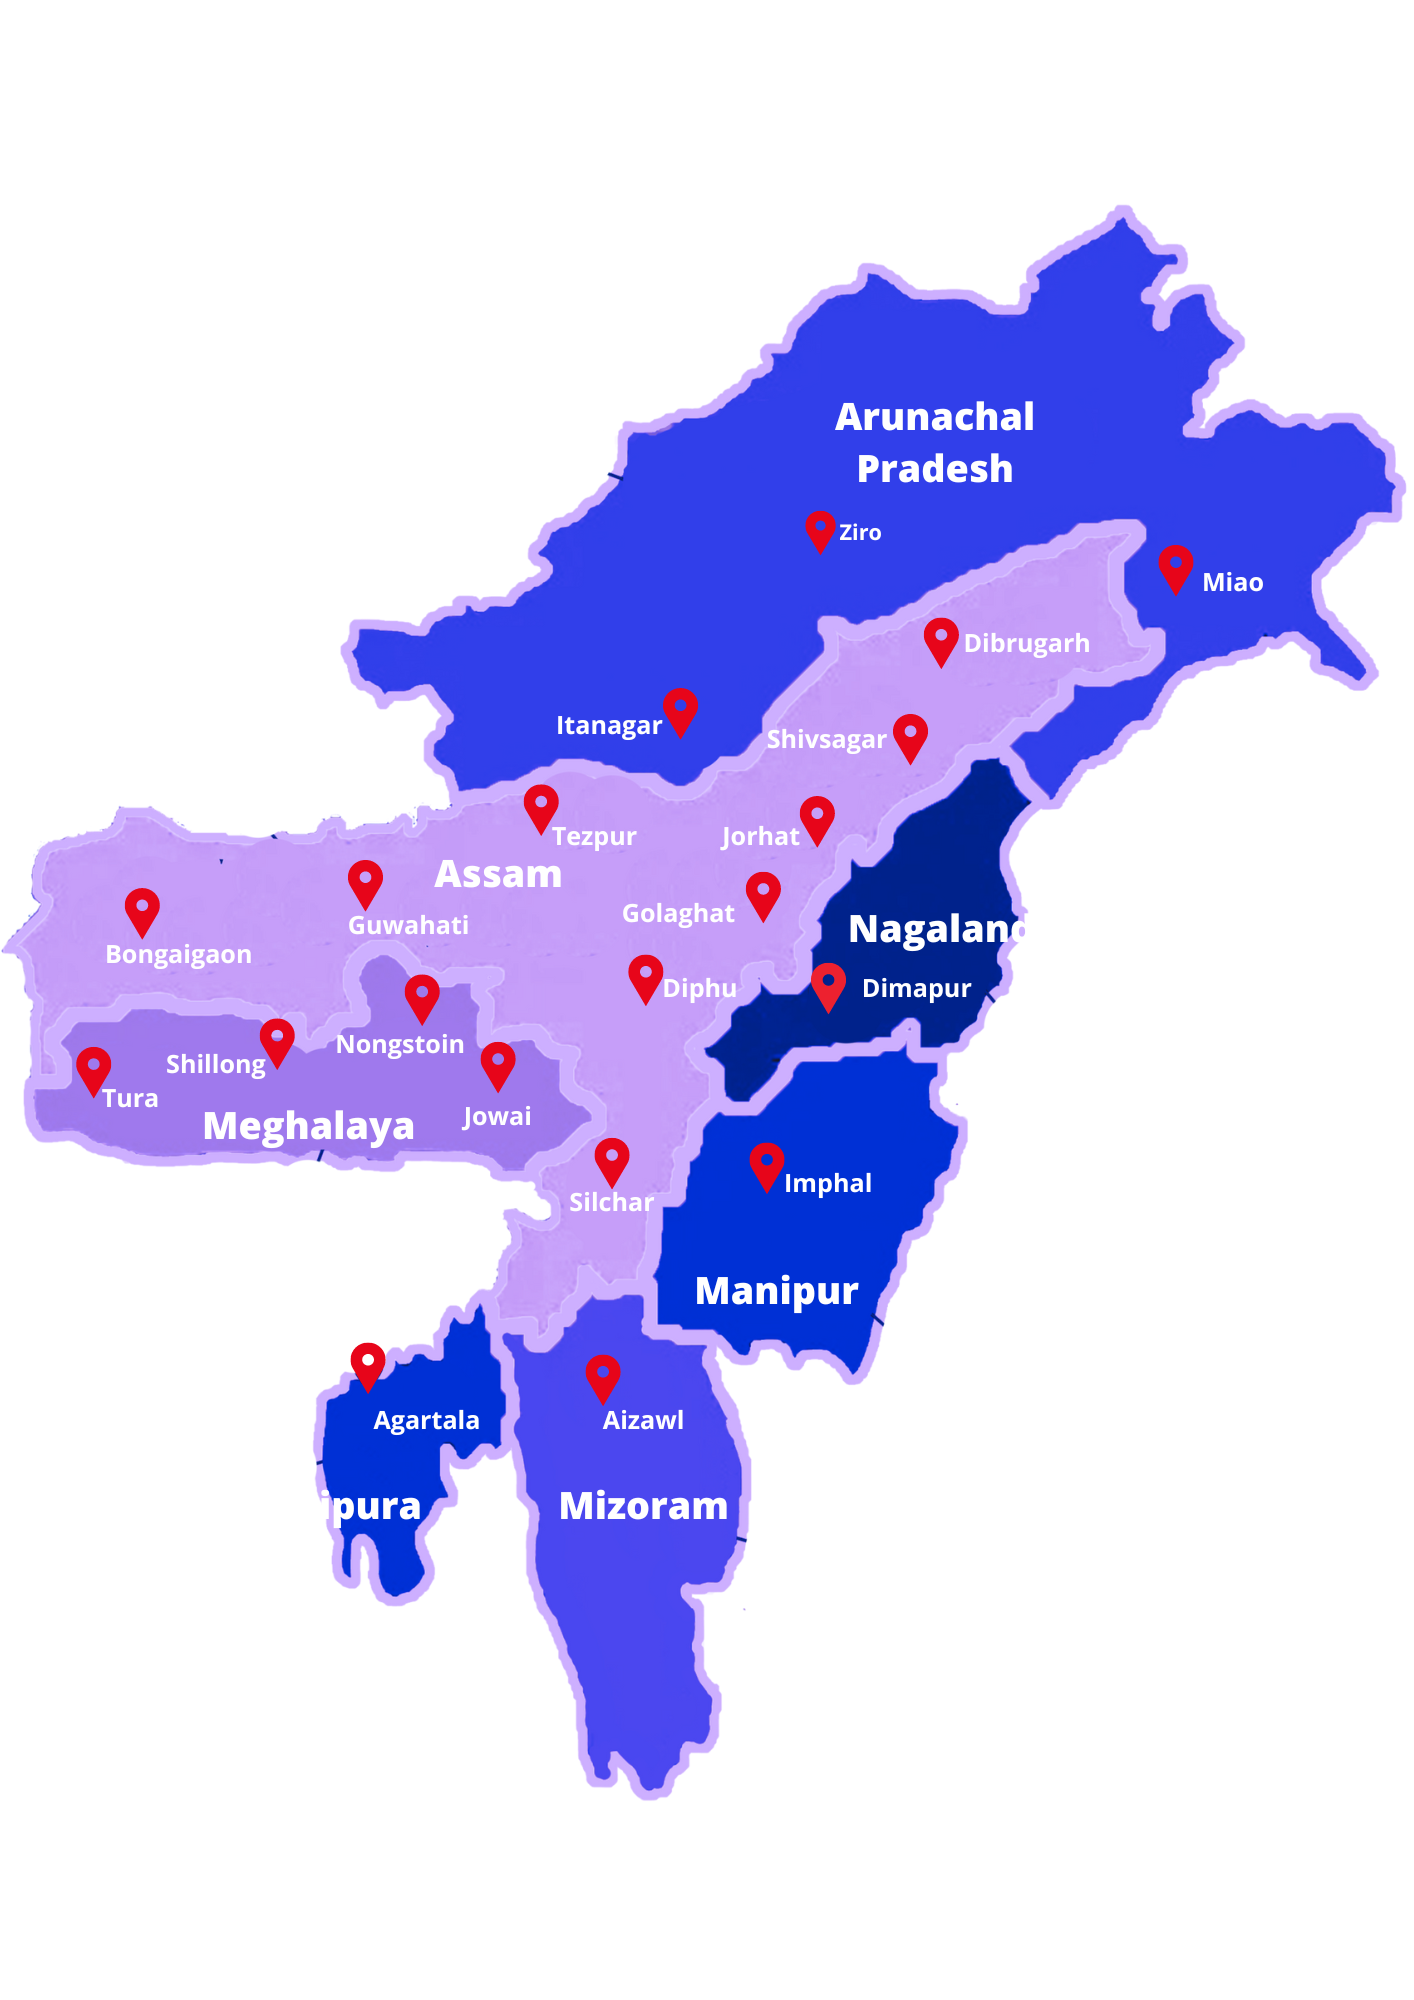
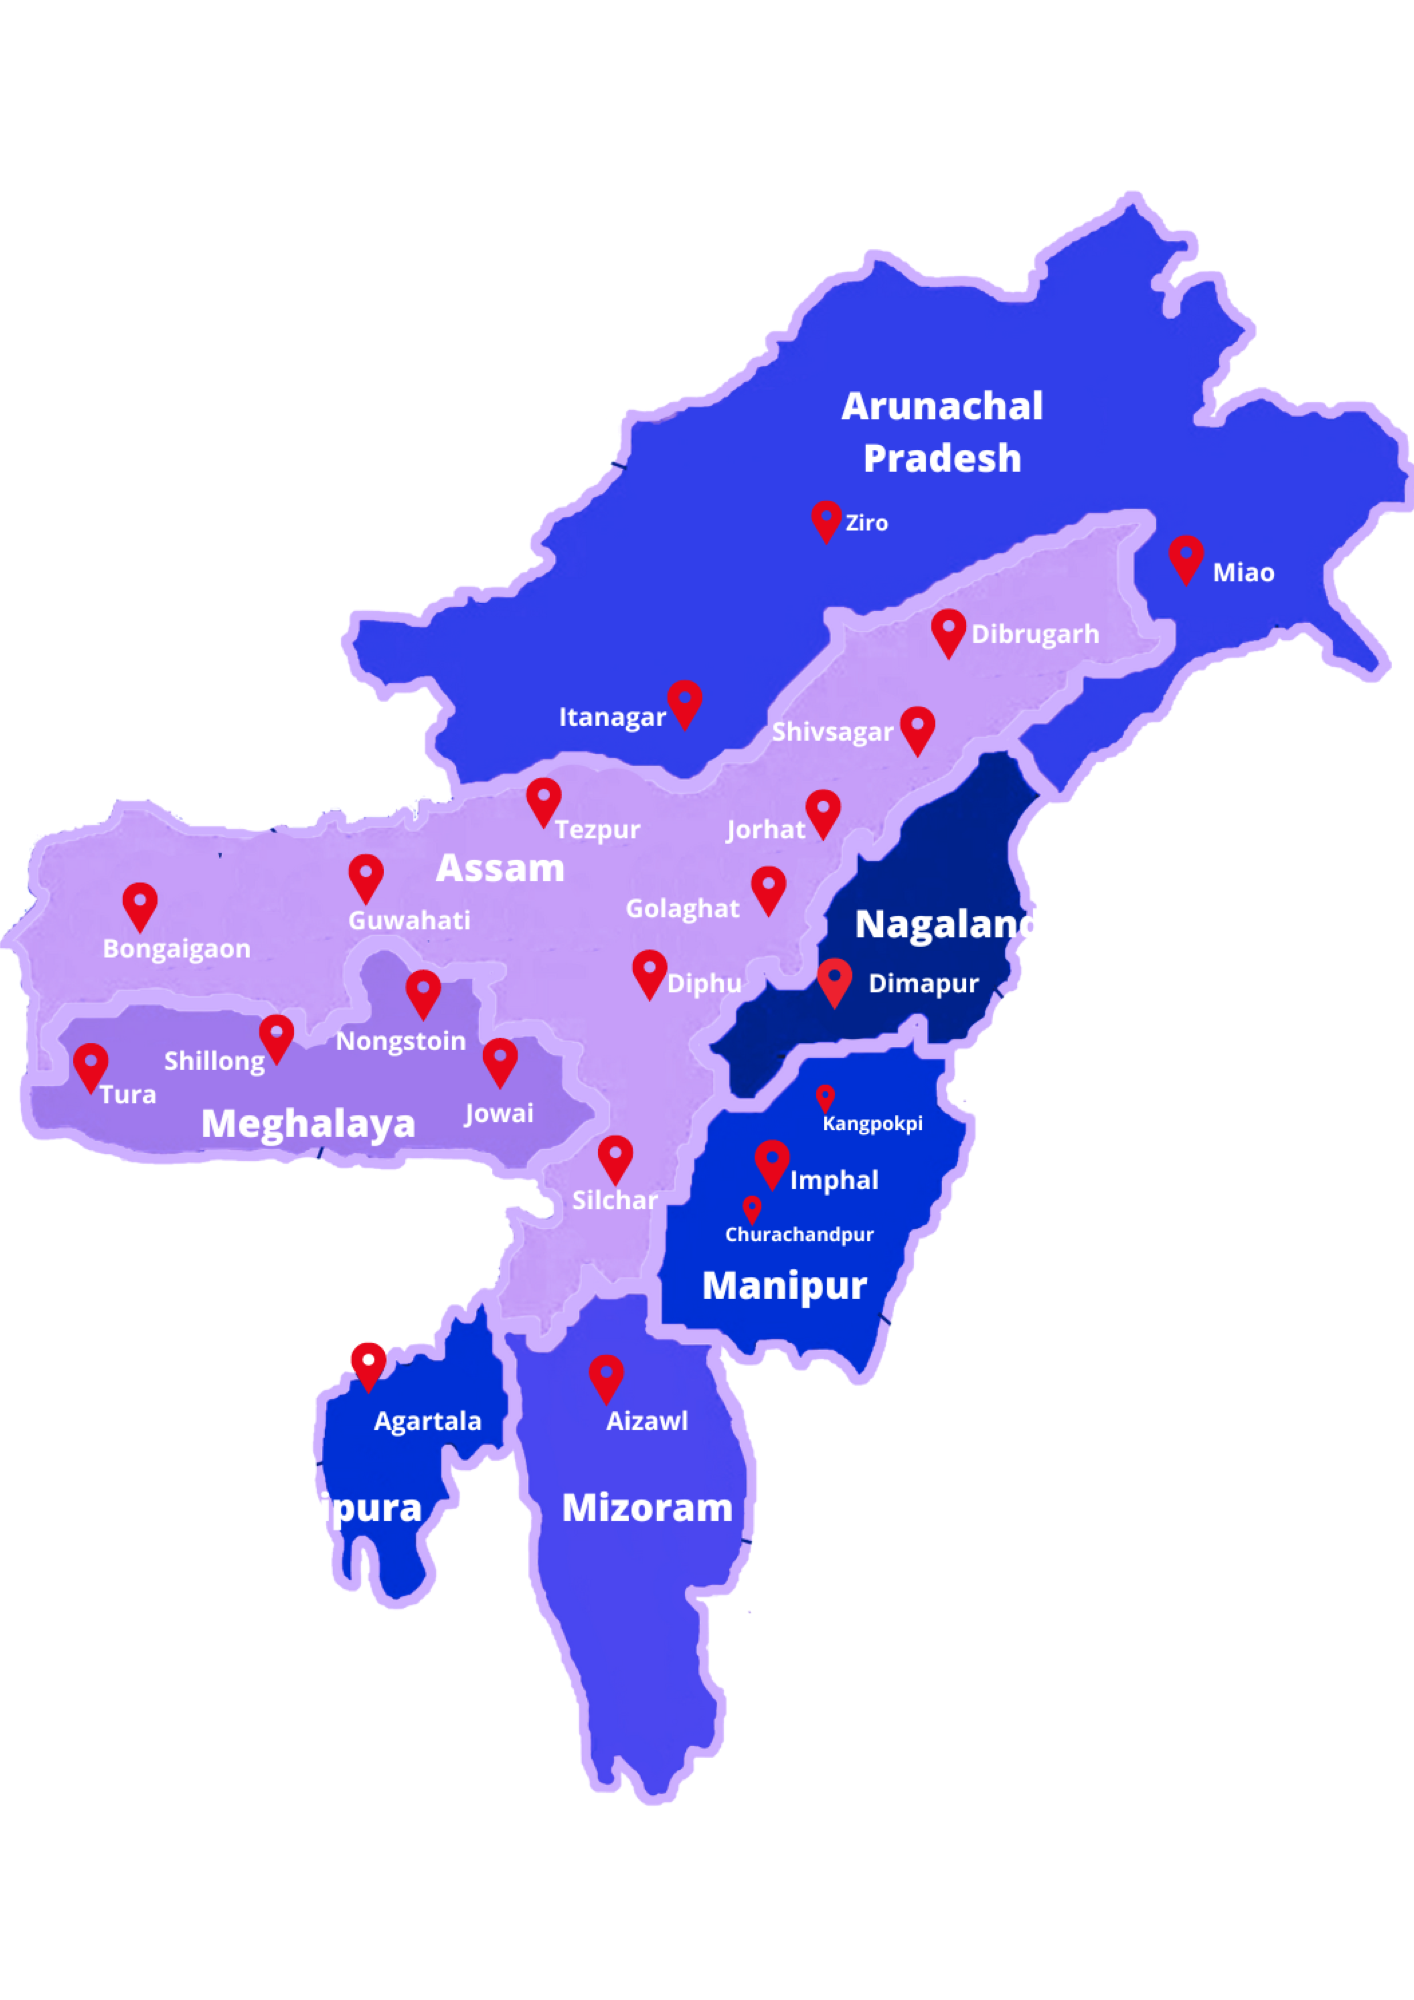
new locations :: Manipur

diff --git a/registration.html b/registration.html
@@ -424,11 +424,14 @@
 														<option value="Dimapur, Nagaland "> Dimapur, Nagaland</option>
 														<option value="Aizawl, Mizoram "> Aizawl, Mizoram</option>
 														<option value="Imphal, Manipur "> Imphal, Manipur</option>
+														<option value="Churachandpur, Manipur "> Churachandpur, Assam</option>
+														<option value="Kangpokpi, Manipur "> Kangpokpi, Assam</option>
 														<option value="Agartala, Tripura "> Agartala, Tripura</option>
 														<option value="Silchar, Assam "> Silchar, Assam</option>
 														<option value="Sivsagar, Assam "> Sivsagar, Assam</option>
 														<option value="Jorhat. Assam "> Jorhat. Assam</option>
 														<option value="Golaghat, Assam "> Golaghat, Assam</option>
+														
 													 </select>
 					
 					
